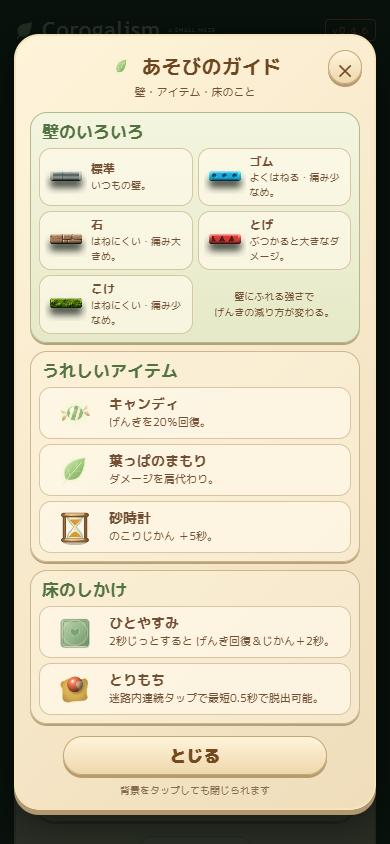
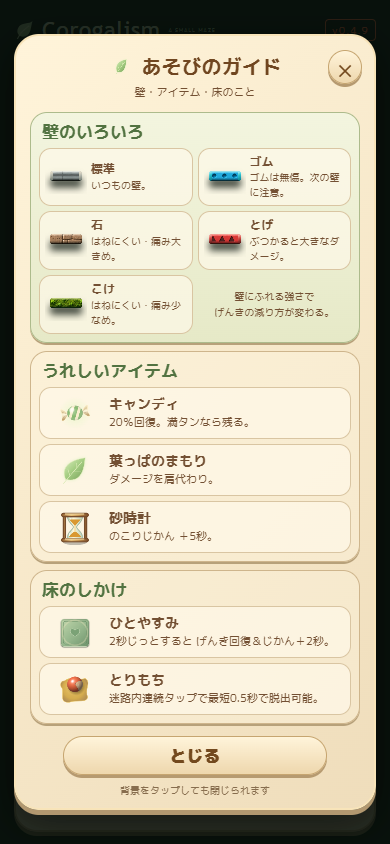
feat(T-238): ゴムの反発先でダメージと満タン案内

diff --git a/test/rubber-rebound.test.js b/test/rubber-rebound.test.js
@@ -1,0 +1,28 @@
+import test from 'node:test';
+import assert from 'node:assert/strict';
+import {BASE} from '../src/config/gameConfig.js';
+import {getMaterial} from '../src/world/materials.js';
+import {getCharacter} from '../src/world/characters.js';
+import {resolveParams} from '../src/physics/resolveParams.js';
+import {stepPhysics} from '../src/physics/integrator.js';
+import {createHp} from '../src/game/hp.js';
+test('ゴムだけ0.9まで反発し、他素材の上限0.7を維持',()=>{
+ assert.equal(resolveParams({base:BASE,material:getMaterial('rubber')}).restitution,.9);
+ assert.equal(resolveParams({base:{...BASE,wallRestitution:2},material:getMaterial('stone')}).restitution,.7);
+});
+test('ゴムは無傷かつ無敵時間を作らず、直後の石の衝突がダメージになる',()=>{
+ const shield={value:10},hp=createHp({turns:10,hpPerTurn:4,shield});
+ assert.equal(hp.applyImpact(30,{materialId:'rubber'},1),0);assert.equal(hp.tookDamage,false);assert.equal(shield.value,10);
+ assert.ok(hp.applyImpact(5,{materialId:'stone'},1.01)>0);assert.equal(hp.tookDamage,true);
+});
+test('実物理で1マス以上反発し、先の石でダメージを受ける',()=>{
+ const actor={x:4.79,y:3.5,r:.22,vx:3,vy:0,character:getCharacter('default')};
+ const stage={maze:{size:10},walls:[{x:5,y:0,w:.24,h:10,materialId:'rubber'}],floors:Array(100).fill('default'),zones:[]};
+ const hits=[];let min=actor.x;
+ for(let i=0;i<180;i++){stepPhysics({actor,stage,tilt:{x:0,y:0},base:BASE,dt:1/120,onImpact:(s,w)=>hits.push(w.materialId)});min=Math.min(min,actor.x);}
+ assert.equal(hits[0],'rubber');assert.ok(4.78-min>1&&4.78-min<1.1);
+ const hp=createHp({turns:10,hpPerTurn:4});actor.x=4.79;actor.vx=6;
+ stage.walls.push({x:3.5,y:0,w:.24,h:10,materialId:'stone'});const damage=[];
+ for(let i=0;i<150;i++)stepPhysics({actor,stage,tilt:{x:0,y:0},base:BASE,dt:1/120,onImpact:(s,w)=>damage.push({id:w.materialId,d:hp.applyImpact(s,w,i/120)})});
+ assert.ok(damage.some(h=>h.id==='rubber'&&h.d===0));assert.ok(damage.some(h=>h.id==='stone'&&h.d>0));
+});

diff --git a/src/ui/guide.js b/src/ui/guide.js
@@ -5,8 +5,8 @@ import { drawLeaf, drawFeatureFloors } from '../render/toyFeatures.js';
 import { drawHourglass } from '../render/toyHourglass.js';
 import { createToyBall } from '../render/toyBall.js';
 import { RECOVERY, REST, HOURGLASS } from '../config/gameConfig.js';
-const walls=[['default','標準','いつもの壁。'],['rubber','ゴム','よくはねる・痛み少なめ。'],['stone','石','はねにくい・痛み大きめ。'],['spike','とげ','ぶつかると大きなダメージ。'],['moss','こけ','はねにくい・痛み少なめ。']];
-const items=[['candy','キャンディ',`げんきを${RECOVERY.healRatio*100}％回復。`],['leaf','葉っぱのまもり','ダメージを肩代わり。'],['hourglass','砂時計',`のこりじかん ＋${HOURGLASS.bonusSec}秒。`]];
+const walls=[['default','標準','いつもの壁。'],['rubber','ゴム','ゴムは無傷。次の壁に注意。'],['stone','石','はねにくい・痛み大きめ。'],['spike','とげ','ぶつかると大きなダメージ。'],['moss','こけ','はねにくい・痛み少なめ。']];
+const items=[['candy','キャンディ',`${RECOVERY.healRatio*100}％回復。満タンなら残る。`],['leaf','葉っぱのまもり','ダメージを肩代わり。'],['hourglass','砂時計',`のこりじかん ＋${HOURGLASS.bonusSec}秒。`]];
 const floors=[['rest','ひとやすみ',`${REST.durationSec}秒じっとすると げんき回復＆じかん＋${REST.durationSec}秒。`],['sticky','とりもち','迷路内連続タップで最短0.5秒で脱出可能。']];
 const card=([id,title,body])=>`<article class="guide-card"><canvas data-guide-art="${id}" width="144" height="112" aria-hidden="true"></canvas><div><h3>${title}</h3><p>${body}</p></div></article>`;
 export function initGuide(canOpen) {

diff --git a/src/game/stagePlay.js b/src/game/stagePlay.js
@@ -21,6 +21,7 @@ export function createStagePlay(seed, difficulty = null, carry = {}) {
   const limitSec = difficulty ? stageTimeLimitSec(maze, difficulty) : null;
   let timeMs = 0;
   let activeSec = 0;
+  let touchingRecovery = false;
   let wallHits = 0;
   let started = false;
   let status = 'playing';
@@ -95,8 +96,11 @@ export function createStagePlay(seed, difficulty = null, carry = {}) {
           }
         } else { if (rest) rest.progress = 0; restOrigin = null; }
         const item = stage.recovery;
-        if (item && !item.collected && hp.value < hp.max
-          && Math.hypot(actor.x - item.x, actor.y - item.y) < actor.r + RECOVERY.radius) {
+        const touching = Boolean(item && !item.collected
+          && Math.hypot(actor.x - item.x, actor.y - item.y) < actor.r + RECOVERY.radius);
+        if (touching && hp.value >= hp.max && !touchingRecovery) onFeature?.('full');
+        touchingRecovery = touching;
+        if (touching && hp.value < hp.max) {
           const before = hp.value;
           const gained = hp.heal(hp.max * RECOVERY.healRatio);
           if (gained > 0) { item.collected = true; onRecovery?.(gained, { before, after: hp.value }); }

diff --git a/test/candy-full.test.js b/test/candy-full.test.js
@@ -1,0 +1,13 @@
+import test from 'node:test';
+import assert from 'node:assert/strict';
+import {createStagePlay} from '../src/game/stagePlay.js';
+import {challengeDifficulty} from '../src/game/challenge.js';
+import {BASE} from '../src/config/gameConfig.js';
+test('満タン案内は接触1回につき1回。残したキャンディは減ったときに回復できる',()=>{
+ const p=createStagePlay(7919,challengeDifficulty(3,'easy')),events=[];
+ p.stage.recovery={x:2.5,y:2.5,collected:false};p.stage.sticky=[];
+ const tick=()=>p.advance({dt:0,elapsedMs:10,tilt:{x:0,y:0},base:BASE,onFeature:k=>events.push(k)});
+ p.teleport(2.5,2.5);tick();for(let i=0;i<100;i++)tick();assert.deepEqual(events,['full']);assert.equal(p.stage.recovery.collected,false);
+ p.teleport(.5,.5);tick();p.teleport(2.5,2.5);tick();assert.deepEqual(events,['full','full']);
+ p.hp.applyImpact(3,{materialId:'default'},0);const hp=p.hp.value;tick();assert.ok(p.hp.value>hp);assert.equal(p.stage.recovery.collected,true);assert.equal(events.length,2);
+});

diff --git a/src/world/materials.js b/src/world/materials.js
@@ -9,7 +9,7 @@ export const MATERIALS = {
   //                        摩擦   反発   加速   ダメージ
   default: { id: 'default', frictionK: 1.0, restitutionK: 1.0, accelK: 1.0, damageK: 1.0 },
   // 壁の素材（フェーズ2）。反発とダメージを別々に振ることで、壁そのものがギミックになる
-  rubber:  { id: 'rubber',  frictionK: 1.0, restitutionK: 2.0, accelK: 1.0, damageK: 0.4 }, // よく跳ねるが痛くない
+  rubber:  { id: 'rubber',  frictionK: 1.0, restitutionK: 2.6, accelK: 1.0, damageK: 0.0 }, // よく跳ねるが痛くない
   stone:   { id: 'stone',   frictionK: 1.0, restitutionK: 0.7, accelK: 1.0, damageK: 1.4 }, // 跳ねないが痛い
   spike:   { id: 'spike',   frictionK: 1.0, restitutionK: 1.2, accelK: 1.0, damageK: 2.0 }, // 跳ねて痛い
   moss:    { id: 'moss',    frictionK: 1.0, restitutionK: 0.5, accelK: 1.0, damageK: 0.2 }, // 安全地帯

diff --git a/src/ui/gameScreen.js b/src/ui/gameScreen.js
@@ -77,7 +77,7 @@ export function createGameScreen(root) {
     },
     showFeature(kind, now) {
       recoveryUntil = now + UI.featureFeedbackMs;
-      root.querySelector('#recovery-feedback').textContent = { hourglass: `のこりじかん ＋${HOURGLASS.bonusSec}秒！`, leaf: '葉っぱのまもりが増えた！', guard: '葉っぱが守ってくれた！', rest: `げんき回復！ のこりじかん＋${REST.durationSec}秒` }[kind];
+      root.querySelector('#recovery-feedback').textContent = { full: 'げんきはまんたん！', hourglass: `のこりじかん ＋${HOURGLASS.bonusSec}秒！`, leaf: '葉っぱのまもりが増えた！', guard: '葉っぱが守ってくれた！', rest: `げんき回復！ のこりじかん＋${REST.durationSec}秒` }[kind];
     },
     showEscape(play, now) {
       escapeUntil = now + UI.featureFeedbackMs;

diff --git a/src/main.js b/src/main.js
@@ -352,7 +352,7 @@ function frame(now) {
     const guardBefore = shield.value;
     let recovery = null;
     const damage = play.advance({ dt, elapsedMs, tilt: tilt.value, base: { ...BASE, maxTiltAngleDeg: settings.maxTiltAngleDeg }, onImpact: sound.impact,
-      onFeature: kind => { game.showFeature(kind, now); sound.effect(kind === 'hourglass' ? 'hourglass' : 'select'); },
+      onFeature: kind => { game.showFeature(kind, now); if (kind !== 'full') sound.effect(kind === 'hourglass' ? 'hourglass' : 'select'); },
       onRecovery: (_amount, change) => { recovery = change; game.showRecovery(change.before, change.after, now); sound.effect('select'); } });
     if (guardBefore > shield.value && damage === 0) game.showFeature('guard', now);
     if (damage > 0) game.showDamage(hpBefore, recovery?.before ?? play.hp.value, now);

diff --git a/src/game/hp.js b/src/game/hp.js
@@ -51,6 +51,7 @@ export function createHp({ turns, hpPerTurn, damageMult = 1, shield = null, cfg 
       if (nowSec - lastDamageAt < cfg.cooldownSec) return 0;
       const damageK = getMaterial(wall && wall.materialId).damageK ?? 1;
       const raw = cfg.damageScale * damageMult * damageK * (speed - cfg.threshold) ** 2;
+      if (raw <= 0) return 0; // 無傷のゴム接触で、次の壁への無敵時間を作らない。
       const incoming = Math.min(cap, raw);
       const absorbed = Math.min(shield?.value ?? 0, incoming);
       if (shield) shield.value -= absorbed;

diff --git a/src/physics/resolveParams.js b/src/physics/resolveParams.js
@@ -27,7 +27,7 @@ export function resolveParams({ base, character, material, zone } = {}) {
     friction: clamp(base.friction * ch.frictionK * mt.frictionK * zn.frictionK, CLAMP.friction),
     restitution: clamp(
       base.wallRestitution * ch.restitutionK * mt.restitutionK * zn.restitutionK,
-      CLAMP.restitution
+      mt.id === 'rubber' ? CLAMP.rubberRestitution : CLAMP.restitution
     ),
     forceX: zn.forceX,
     forceY: zn.forceY,

diff --git a/index.html b/index.html
@@ -23,7 +23,7 @@
         <span class="brand-word">Corogalism</span>
       </h1>
       <p class="brand-tagline">A SMALL MAZE<br>A BIG FEELING</p>
-      <span class="badge">v0.4.8</span>
+      <span class="badge">v0.4.9</span>
       </div>
       <p class="sub" id="dev-note">開発中の技術検証です（フェーズ2）</p>
     </div>

diff --git a/style.css b/style.css
@@ -443,3 +443,5 @@ body.board-session #screen-game{padding:8px;gap:6px}#game-status{margin:0}
 .pause-card{touch-action:pan-y}
 
 @media(max-height:800px){body.board-session .wrap{gap:6px}body.board-session #play-hint{display:none}}
+
+@media(max-width:360px){.play-guide .guide-group{padding:6px;margin-top:6px}}
